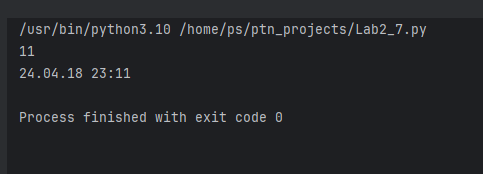
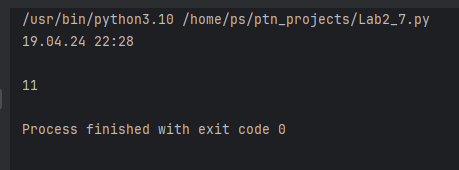
Рефакторинг

diff --git a/Lab2_5.py b/Lab2_5.py
@@ -1,9 +1,5 @@
-from datetime import datetime
-current_datetime = datetime.now()
-formatted_datetime = current_datetime.strftime('%y.%m.%d %H:%M')
+from get_datetime import get_datetime
+get_datetime()
 
-day, month, year = 18, 'апрель', 2024
+day, month, year = 18, 'апреля', 2024
 print(f"Сегодня {day} {month} {year}.", end=" Всего хорошего!")
-
-print()
-print(formatted_datetime)

diff --git a/Lab2_10.py b/Lab2_10.py
@@ -1,9 +1,6 @@
-from datetime import datetime
-current_datetime = datetime.now()
-formatted_datetime = current_datetime.strftime('%y.%m.%d %H:%M')
+from get_datetime import get_datetime
+get_datetime()
 
 phrase = 'Hello World'
 initials = phrase[0] + phrase[6]
 print(initials)
-
-print(formatted_datetime)

diff --git a/Lab2_2.py b/Lab2_2.py
@@ -1,8 +1,5 @@
-from datetime import datetime
-current_datetime = datetime.now()
-formatted_datetime = current_datetime.strftime('%y.%m.%d %H:%M')
+from get_datetime import get_datetime
+get_datetime()
 
 a, b, c = 1, 2, 3
 print(a, b, c)
-
-print(formatted_datetime)

diff --git a/Lab2_6.py b/Lab2_6.py
@@ -1,7 +1,4 @@
-from datetime import datetime
-current_datetime = datetime.now()
-formatted_datetime = current_datetime.strftime('%y.%m.%d %H:%M')
+from get_datetime import get_datetime
+get_datetime()
 
 print('Hello' + ' my ' + 'World')
-
-print(formatted_datetime)

diff --git a/Lab2_8.py b/Lab2_8.py
@@ -1,7 +1,4 @@
-from datetime import datetime
-current_datetime = datetime.now()
-formatted_datetime = current_datetime.strftime('%y.%m.%d %H:%M')
+from get_datetime import get_datetime
+get_datetime()
 
 print('HELLO WORLD'.lower())
-
-print(formatted_datetime)

diff --git a/Lab2_3.py b/Lab2_3.py
@@ -1,8 +1,5 @@
-from datetime import datetime
-current_datetime = datetime.now()
-formatted_datetime = current_datetime.strftime('%y.%m.%d %H:%M')
+from get_datetime import get_datetime
+get_datetime()
 
 x = int(input())
 print(x)
-
-print(formatted_datetime)

diff --git a/Lab2_4.py b/Lab2_4.py
@@ -1,8 +1,5 @@
-from datetime import datetime
-current_datetime = datetime.now()
-formatted_datetime = current_datetime.strftime('%y.%m.%d %H:%M')
+from get_datetime import get_datetime
+get_datetime()
 
 s = 'hello'
 print(s * 4)
-
-print(formatted_datetime)

diff --git a/Lab2_7.py b/Lab2_7.py
@@ -1,7 +1,4 @@
-from datetime import datetime
-current_datetime = datetime.now()
-formatted_datetime = current_datetime.strftime('%y.%m.%d %H:%M')
+from get_datetime import get_datetime
+get_datetime()
 
 print(len('Hello World'))
-
-print(formatted_datetime)

diff --git a/Lab2_9.py b/Lab2_9.py
@@ -1,8 +1,5 @@
-from datetime import datetime
-current_datetime = datetime.now()
-formatted_datetime = current_datetime.strftime('%y.%m.%d %H:%M')
+from get_datetime import get_datetime
+get_datetime()
 
 a, b = 5, 7
 print(a + b)
-
-print(formatted_datetime)

diff --git a/Lab2_1.py b/Lab2_1.py
@@ -1,7 +1,4 @@
-from datetime import datetime
-current_datetime = datetime.now()
-formatted_datetime = current_datetime.strftime('%y.%m.%d %H:%M')
+from get_datetime import get_datetime
+get_datetime()
 
 print(int(False))
-
-print(formatted_datetime)

diff --git a/get_datetime.py b/get_datetime.py
@@ -1,0 +1,6 @@
+from datetime import datetime
+
+
+def get_datetime():
+    print(datetime.now().strftime('%d.%m.%y %H:%M'))
+    print()

diff --git a/Тема_2.md b/Тема_2.md
@@ -65,7 +65,7 @@ print(s * 4)
 ### Создайте три переменные: день (тип данных - числовой), месяц (тип данных - строка), год (тип данных - числовой) и выведите в консоль текущую дату в формате: “Сегодня день месяц год. Всего хорошего!” используя F строку и оператор end внутри print(), в котором вы должны написать фразу “Всего хорошего!”. Программа должна занимать не более двух строк редактора кода.
 
 ```python
-day, month, year = 18, 'апрель', 2024
+day, month, year = 18, 'апреля', 2024
 print(f"Сегодня {day} {month} {year}.", end=" Всего хорошего!")
 ```
 ### Результат
